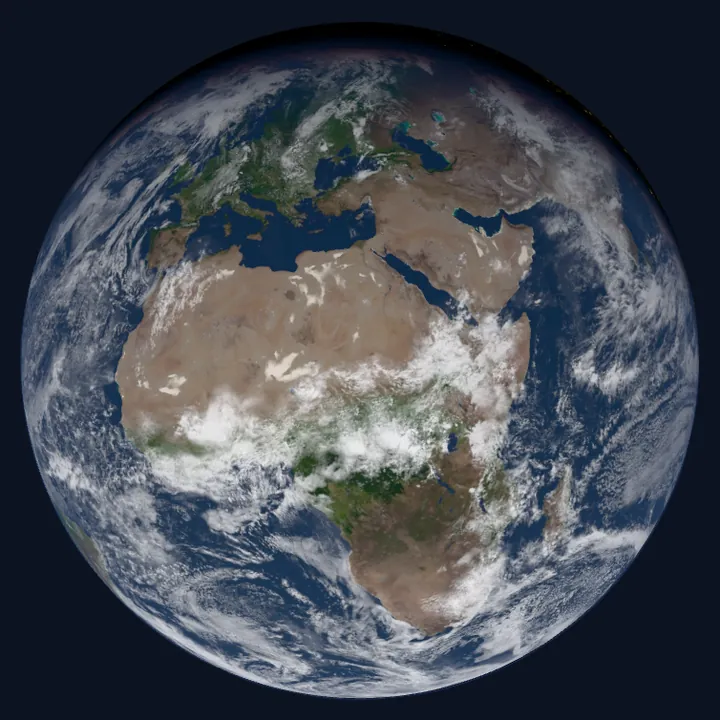
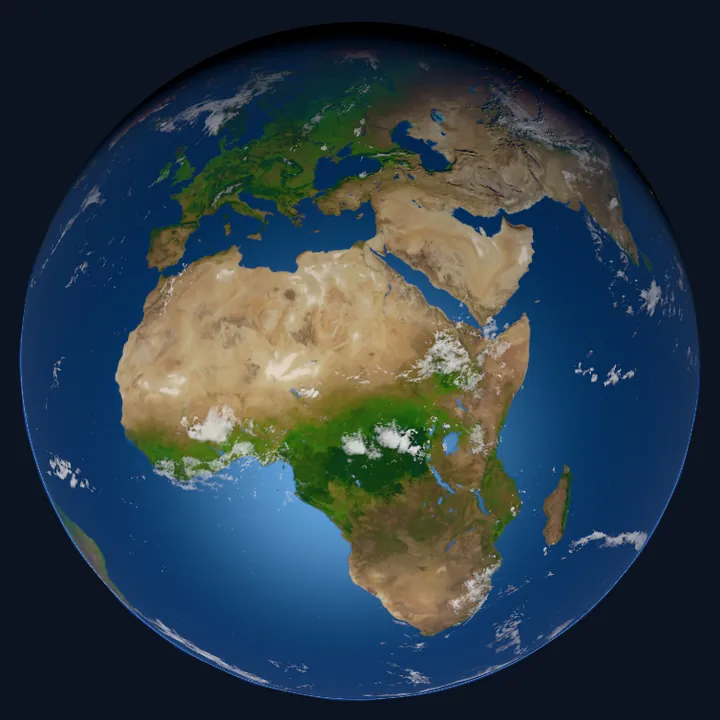
fix: el tinte del halo, solo en la Tierra (TLS_TINT): con el uniforme a 1, el shader de los demás halos cambiaba algún píxel (las miniaturas de Marte y de Titán); y la miniatura y las imágenes de la ficha de la Tierra, regeneradas con la Tierra realzada (D46)

diff --git a/src/app/scene/materials/atmosphere-material.ts b/src/app/scene/materials/atmosphere-material.ts
@@ -44,9 +44,11 @@ uniform float uRadius;
 uniform float uScaleHeight;
 uniform vec4 uHaze;
 uniform vec4 uHazeColor;
-// Un tinte lineal sobre el halo: (1, 1, 1), ninguno; el borde de la Tierra realzada (fase 9b, D46),
-// más azul y brillante.
+#ifdef TLS_TINT
+// Un tinte lineal sobre el halo: el borde de la Tierra realzada (fase 9b, D46), más azul y brillante.
+// Solo en la Tierra: los demás halos, con el mismo shader que antes.
 uniform vec3 uTint;
+#endif
 varying vec3 vViewPosition;
 varying vec3 vCenter;
 varying vec3 vSunDirection;
@@ -83,7 +85,11 @@ void main() {
   float cosAlpha = dot(toSun, toViewer);
   float forward = 1.0 + uHaze.w * tlsHenyeyGreenstein(cosAlpha, g) / tlsHenyeyGreenstein(-1.0, g);
   float glow = uHaze.x * density * lit * forward;
+#ifdef TLS_TINT
   gl_FragColor = vec4(uHazeColor.rgb * uTint * glow, 1.0);
+#else
+  gl_FragColor = vec4(uHazeColor.rgb * glow, 1.0);
+#endif
   ${OUTPUT_FRAGMENT}
 }
 `;
@@ -98,8 +104,11 @@ export interface AtmosphereUniforms {
   readonly uHazeColor: Uniform<Vector4>;
   /** El mismo vector que usa el material del cuerpo: no hay que copiarlo en cada frame. */
   readonly uSunDirection: Uniform<Vector3>;
-  /** Tinte lineal del halo: (1, 1, 1), ninguno; el borde de la Tierra realzada (fase 9b, D46). */
-  readonly uTint: Uniform<Vector3>;
+  /**
+   * Tinte lineal del halo: el borde de la Tierra realzada (fase 9b, D46). Sin él, ninguno (y el shader,
+   * sin `TLS_TINT`, el de siempre).
+   */
+  readonly uTint?: Uniform<Vector3>;
 }
 
 export function createAtmosphereMaterial(uniforms: AtmosphereUniforms) {
@@ -108,6 +117,7 @@ export function createAtmosphereMaterial(uniforms: AtmosphereUniforms) {
     uniforms: uniforms as unknown as Record<string, Uniform>,
     vertexShader,
     fragmentShader,
+    ...(uniforms.uTint ? { defines: { TLS_TINT: '' } } : {}),
     transparent: true,
     depthWrite: false,
     blending: AdditiveBlending,

diff --git a/src/app/scene/engine.spec.ts b/src/app/scene/engine.spec.ts
@@ -1413,7 +1413,7 @@ describe('SceneEngine: interfaz de la fase 3 (encuadre, vuelos, teclado, estelas
         uEarth: { value: Vector4 };
         uEnhancedAridKnee: { value: number };
       } | null;
-      atmosphere: { uniforms: { uTint: { value: Vector3 } } } | null;
+      atmosphere: { uniforms: { uTint?: { value: Vector3 } } } | null;
     }
     const visuals = (internals(h).world as unknown as { visuals: EnhancedVisual[] }).visuals;
     const visual = visuals.find((v) => v.body.id === 'tierra');
@@ -1433,9 +1433,10 @@ describe('SceneEngine: interfaz de la fase 3 (encuadre, vuelos, teclado, estelas
     // Los umbrales de las nubes, en orden, y su opacidad, sin pasar de la de la textura.
     expect(clouds.from).toBeLessThan(clouds.to);
     expect(clouds.max).toBeLessThanOrEqual(1);
-    expect(visual?.atmosphere?.uniforms.uTint.value.toArray()).toEqual([...rim]);
+    expect(visual?.atmosphere?.uniforms.uTint?.value.toArray()).toEqual([...rim]);
+    // Los demás halos, sin tinte (y sin `TLS_TINT`: su shader, el de siempre).
     for (const other of visuals.filter((v) => v.body.id !== 'tierra' && v.atmosphere)) {
-      expect(other.atmosphere?.uniforms.uTint.value.toArray(), other.body.id).toEqual([1, 1, 1]);
+      expect(other.atmosphere?.uniforms.uTint, other.body.id).toBeUndefined();
     }
     h.engine.dispose();
   });

diff --git a/src/app/scene/world.ts b/src/app/scene/world.ts
@@ -1422,11 +1422,9 @@ export class World {
       uHazeColor: hazeColor,
       uSunDirection: body.uSunDirection,
       // El borde de la Tierra realzada (fase 9b, D46), más azul y brillante; los demás, sin tinte.
-      uTint: new Uniform(
-        new Vector3(
-          ...(mesh.name === 'tierra' ? VISUAL_CONFIG.earth.enhanced.rim : ([1, 1, 1] as const)),
-        ),
-      ),
+      ...(mesh.name === 'tierra'
+        ? { uTint: new Uniform(new Vector3(...VISUAL_CONFIG.earth.enhanced.rim)) }
+        : {}),
     });
     const shell = new Mesh(this.coarseSphere, material);
     shell.name = `${mesh.name}-atmosphere`;
